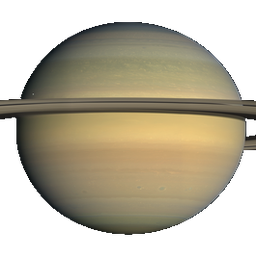
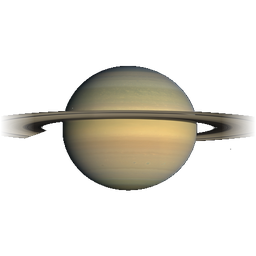
Stripe cuenta propia: webhook compatible con API basil/dahlia; sinastría web (synastryStyle), Saturno v4, sw v109
- billing/webhook.js: invoice.parent.subscription_details y current_period_* por item (API ≥2025-03-31.basil; el webhook nuevo usa 2026-08-26.dahlia)
- natal-chart.js + compatibilidad-personal.html: modo synastryStyle (órbitas por planeta, esferas visitantes, líneas exactas) — verificado 2/sep
- assets/planets/Saturno.png: anillos completos con pluma alfa (v4)
- sw.js: CACHE_NAME v109

diff --git a/js/natal-chart.js b/js/natal-chart.js
@@ -198,14 +198,14 @@
   // siendo el mayor por poco, no aplasta a Júpiter (1.13x) y el cuerpo de
   // Saturno conserva su 1.29x sobre Urano. El recorte del PNG va emparejado
   // en scripts/preparar_texturas_web.py — si cambia uno, cambia el otro.
-  var TEX_BOX = { Saturn: 1.20, Earth: 1.122 };
+  var TEX_BOX = { Saturn: 2.05, Earth: 1.122 };
 
   var _tex = {};           // nombre → HTMLImageElement
   var _texBase = '/assets/planets/';
   // Cloudflare guarda los assets 4 horas en el borde. Sin una marca en la URL
   // se puede regenerar una textura, desplegarla, y seguir viendo la vieja
   // media tarde. SÚBELO cada vez que cambie cualquier PNG de esa carpeta.
-  var _texVer = '?v=3';   // v3 = 7/ago: Saturno recortado a 1.20x (antes 1.35)
+  var _texVer = '?v=4';   // v4 = 2/sep: Saturno 2.05x con pluma (anillos sin corte)   // v3 = 7/ago: Saturno recortado a 1.20x (antes 1.35)
   // Oyentes de "ya cargó una textura". El módulo NO se repinta solo: si lo
   // hiciera tendría que reusar las opciones del render anterior, y esas
   // caducan (basta que la ventana cambie de tamaño para que el lienzo se
@@ -478,6 +478,12 @@
     // chart export que se layerea sobre cosmic bg del short.
     var TRANSPARENT_MODE = opts.transparent === true;
     var SKIP_LABELS = opts.skipLabels === true;
+    // 2026-09-02 — estilo sinastría: mejoras nacidas en los Estudios
+    // Especiales (rueda de dos cartas), encendidas SOLO con
+    // chartData.synastryStyle. Mi Día y el video no pasan la bandera y
+    // quedan pixel-idénticos. Vivieron como parches en
+    // scripts/sinastria_rueda_oficial.py (v4–v8) antes de graduarse aquí.
+    var SYN = chartData.synastryStyle === true;
     var bgOuter = outerR + size * 0.075;
     if (!TRANSPARENT_MODE) {
       var bgGrad = ctx.createRadialGradient(cx, cy, 0, cx, cy, bgOuter);
@@ -1426,7 +1432,7 @@
         // Realistic planet sphere (radial gradient + halo + optional rings).
         // Sol/Luna get bigger radii because they're the attention anchors.
         var sphereR = size * (REAL_BODIES && BODY_R[p.name] !== undefined
-                            ? BODY_R[p.name]
+                            ? BODY_R[p.name] * (SYN ? 0.82 : 1)
                             : (p.name === 'Sun' ? 0.024
                              : p.name === 'Moon' ? 0.022
                              : 0.019));
@@ -1530,6 +1536,17 @@
           pendingLabels.push(function() {
             ctx.save();
             ctx.font = labelFont;
+            if (SYN && Math.abs(lblY - py) > size * 0.05) {
+              // hilo guía cuando el anticolisión mandó la etiqueta lejos
+              // (caso real: «Mer 25°» flotando y su Mercurio gris leído
+              // como «una tercera luna»)
+              ctx.strokeStyle = 'rgba(255,255,255,0.38)';
+              ctx.lineWidth = 0.8 * (size/420);
+              ctx.beginPath();
+              ctx.moveTo(px, py + (lblY > py ? size*0.022 : -size*0.022));
+              ctx.lineTo(px, lblY + (lblY > py ? -size*0.017 : size*0.017));
+              ctx.stroke();
+            }
             ctx.shadowColor = 'rgba(0,0,0,0.85)';
             ctx.shadowBlur = 3 * (size/420);
             ctx.fillStyle = GEOCENTRIC ? 'rgba(255,255,255,0.95)'
@@ -1589,6 +1606,32 @@
       // they're sky-of-today visiting your chart).
       var transitR = size * 0.265;
 
+      // Estilo sinastría: cada visitante en la órbita de SU planeta (la
+      // doctrina del motor: se empuja el RADIO, nunca el ángulo). Si el
+      // caller no manda transitOrbit hecho, se calcula aquí a partir de
+      // ORBIT_R + el radioAjustado natal (apartando al visitante cuando su
+      // MISMO planeta natal queda casi encimado).
+      var transitOrbit = chartData.transitOrbit || null;
+      if (SYN && !transitOrbit && GEOCENTRIC && typeof ORBIT_R !== 'undefined') {
+        transitOrbit = {};
+        chartData.transits.forEach(function (t) {
+          if (ORBIT_R[t.name] !== undefined) transitOrbit[t.name] = ORBIT_R[t.name];
+        });
+        chartData.transits.forEach(function (t) {
+          var rB = transitOrbit[t.name];
+          var rA = (typeof radioAjustado !== 'undefined' && radioAjustado)
+                   ? radioAjustado[t.name] : undefined;
+          var lonA = null;
+          (chartData.planets || []).forEach(function (p) {
+            if (p.name === t.name) lonA = p.longitude;
+          });
+          if (rB === undefined || rA === undefined || lonA === null) return;
+          var d = Math.abs(lonA - t.longitude) % 360;
+          if (d > 180) d = 360 - d;
+          if (d < 16 && Math.abs(rB - rA) < 0.02) transitOrbit[t.name] = rB + 0.016;
+        });
+      }
+
       // Aspect lines first (behind the transit glyphs). Use distinct
       // colours per aspect type so the chart reads like a traditional
       // transit biwheel.
@@ -1614,18 +1657,43 @@
           var tAngle = ((tAsp.transitLon + ascOffset) * DEG) - Math.PI / 2;
           var nAngle = natalAngleByName[tAsp.natal];
           if (nAngle === undefined) continue;
-          ctx.strokeStyle = style.color + (tAsp.exact ? 'AA' : '66');
-          ctx.lineWidth = tAsp.exact ? 1.1 : 0.7;
+          ctx.strokeStyle = style.color + (tAsp.exact ? (SYN ? 'FF' : 'AA')
+                                                      : (SYN ? 'CC' : '66'));
+          ctx.lineWidth = SYN ? (tAsp.exact ? 2.8 : 1.8)
+                              : (tAsp.exact ? 1.1 : 0.7);
           ctx.setLineDash(style.dash);
           ctx.beginPath();
-          ctx.moveTo(cx + Math.cos(tAngle) * transitR, cy + Math.sin(tAngle) * transitR);
-          // Aim at the natal planet's tier'd radius — use base planetR
-          // as a good-enough endpoint since we don't have that planet's
-          // tier handy here.
-          ctx.lineTo(cx + Math.cos(nAngle) * (planetR - size * 0.02),
-                     cy + Math.sin(nAngle) * (planetR - size * 0.02));
+          var tAR = (transitOrbit && tAsp.transitName &&
+                     transitOrbit[tAsp.transitName] !== undefined)
+            ? size * transitOrbit[tAsp.transitName] : transitR;
+          ctx.moveTo(cx + Math.cos(tAngle) * tAR, cy + Math.sin(tAngle) * tAR);
+          // Extremo natal: en estilo sinastría, EXACTO sobre el planeta
+          // (v7 del estudio: el «good-enough endpoint» hacía que dos
+          // líneas distintas parecieran una sola cambiando de color).
+          var _nMul = (typeof radioAjustado !== 'undefined' && radioAjustado &&
+                       radioAjustado[tAsp.natal] !== undefined)
+            ? radioAjustado[tAsp.natal]
+            : (typeof PLANET_ORBIT_R !== 'undefined' &&
+               PLANET_ORBIT_R[tAsp.natal] !== undefined
+               ? PLANET_ORBIT_R[tAsp.natal] : null);
+          var _nR = (SYN && _nMul !== null) ? _nMul * size
+                                            : (planetR - size * 0.02);
+          var _nx = cx + Math.cos(nAngle) * _nR;
+          var _ny = cy + Math.sin(nAngle) * _nR;
+          ctx.lineTo(_nx, _ny);
           ctx.stroke();
           ctx.setLineDash([]);
+          if (SYN) {
+            // punto de color en cada punta: dónde nace y muere la línea
+            ctx.fillStyle = style.color;
+            ctx.beginPath();
+            ctx.arc(_nx, _ny, size * 0.006, 0, TAU);
+            ctx.fill();
+            ctx.beginPath();
+            ctx.arc(cx + Math.cos(tAngle) * tAR,
+                    cy + Math.sin(tAngle) * tAR, size * 0.006, 0, TAU);
+            ctx.fill();
+          }
         }
       }
 
@@ -1637,18 +1705,23 @@
         var t = chartData.transits[ti];
         if (typeof t.longitude !== 'number') continue;
         var tAng = ((t.longitude + ascOffset) * DEG) - Math.PI / 2;
-        // Small nudge if overlapping
+        // Small nudge if overlapping (NO en estilo sinastría: ahí la
+        // separación es RADIAL — el ángulo es el dato y no se miente)
         for (var tj = 0; tj < transitPositions.length; tj++) {
-          if (Math.abs(tAng - transitPositions[tj]) < 0.09) tAng += 0.095;
+          if (!SYN && Math.abs(tAng - transitPositions[tj]) < 0.09) tAng += 0.095;
         }
         transitPositions.push(tAng);
-        var tx = cx + Math.cos(tAng) * transitR;
-        var ty = cy + Math.sin(tAng) * transitR;
-        var sphereR = size * 0.018;
+        var tR = (transitOrbit && transitOrbit[t.name] !== undefined)
+          ? size * transitOrbit[t.name] : transitR;
+        var tx = cx + Math.cos(tAng) * tR;
+        var ty = cy + Math.sin(tAng) * tR;
+        var sphereR = size * (SYN && BODY_R[t.name] !== undefined
+                              ? BODY_R[t.name] * 0.82 * 0.85 : 0.018);
         drawPlanetSphere(ctx, tx, ty, sphereR, t.name, REAL_BODIES);
         // Faint silvery rim to signal "transit, not natal"
-        ctx.strokeStyle = 'rgba(220,220,240,0.55)';
-        ctx.lineWidth = 1 * (size/420);
+        ctx.strokeStyle = SYN ? 'rgba(150,205,255,0.95)'
+                              : 'rgba(220,220,240,0.55)';
+        ctx.lineWidth = (SYN ? 2.2 : 1) * (size/420);
         ctx.setLineDash([2, 2]);
         ctx.beginPath();
         ctx.arc(tx, ty, sphereR + 2.5, 0, TAU);
@@ -1675,6 +1748,20 @@
         ctx.shadowBlur = 0 * (size/420);
 
         // Hit region for tap-identify
+        if (SYN) {
+          // nombre del visitante bajo su esfera, en su color celeste
+          var tEs = {Sun:'Sol',Moon:'Luna',Mercury:'Merc',Venus:'Venus',
+                     Mars:'Marte',Jupiter:'Júp',Saturn:'Sat',
+                     Uranus:'Urano',Neptune:'Nep',Pluto:'Plutón'}[t.name]
+                    || t.name;
+          ctx.font = 'bold ' + Math.round(size * 0.0155) + 'px Inter, Arial';
+          ctx.shadowColor = 'rgba(0,0,0,0.85)';
+          ctx.shadowBlur = 4;
+          ctx.fillStyle = 'rgba(160,210,255,0.98)';
+          ctx.fillText(tEs, tx, ty + sphereR + size * 0.016);
+          ctx.shadowColor = 'transparent';
+          ctx.shadowBlur = 0;
+        }
         hitRegions.push({
           type: 'transit',
           name: t.name,

diff --git a/functions/api/billing/webhook.js b/functions/api/billing/webhook.js
@@ -196,10 +196,12 @@ export async function onRequestPost(context) {
         // nuevas del API de Stripe los mueven a subscription.items) —
         // new Date(undefined).toISOString() lanza "Invalid time value" y el
         // catch exterior devolvía 500 (11 reintentos desde el 12/jul).
-        const _ps = sub.current_period_start
-          ? new Date(sub.current_period_start * 1000).toISOString() : null;
-        const _pe = sub.current_period_end
-          ? new Date(sub.current_period_end * 1000).toISOString() : null;
+        // 2026-09-03: en API ≥2025-03-31.basil los periodos viven en el item.
+        const _item0 = sub.items?.data?.[0] || {};
+        const _cps = sub.current_period_start || _item0.current_period_start;
+        const _cpe = sub.current_period_end || _item0.current_period_end;
+        const _ps = _cps ? new Date(_cps * 1000).toISOString() : null;
+        const _pe = _cpe ? new Date(_cpe * 1000).toISOString() : null;
         await DB.prepare(
           'UPDATE subscriptions SET status = ?, ' +
           'current_period_start = COALESCE(?, current_period_start), ' +
@@ -252,11 +254,17 @@ export async function onRequestPost(context) {
         if (amountCents > 0) {
           const email = invoice.customer_email || '';
           let plan = 'premium';
+          // 2026-09-03: desde la API 2025-03-31.basil `invoice.subscription` ya no
+          // existe; vive en `invoice.parent.subscription_details.subscription`.
+          // El webhook nuevo (cuenta Luz Estelar) usa 2026-08-26.dahlia.
+          const invoiceSubId = invoice.subscription
+            || invoice.parent?.subscription_details?.subscription
+            || null;
           try {
-            if (invoice.subscription) {
+            if (invoiceSubId) {
               const subRow = await DB.prepare(
                 'SELECT plan FROM subscriptions WHERE stripe_subscription_id = ?'
-              ).bind(invoice.subscription).first();
+              ).bind(invoiceSubId).first();
               if (subRow?.plan) plan = subRow.plan;
             }
           } catch (e) { /* non-fatal — fall back to 'premium' */ }

diff --git a/compatibilidad-personal.html b/compatibilidad-personal.html
@@ -972,15 +972,16 @@ body{
     // aspects visible too (those were finally fixed in v55).
 
     // 2026-08-07: esta página se quedó con el acabado viejo cuando /mi-dia
-    // pasó al nuevo — planetas dibujados, sin constelaciones ni estrellas.
-    // Ahora lleva el MISMO acabado, pero NO `geocentricOrbits`: en la rueda
-    // geocéntrica la distancia al centro dice QUÉ PLANETA es, y aquí tiene
-    // que seguir diciendo DE QUIÉN es (dentro tú, fuera la otra persona),
-    // que es lo único que esta página tiene que comunicar.
-    //
-    // Efecto secundario bienvenido: los planetas de dentro salen con foto y
-    // los de fuera como medallón de glifo, así que "quién es quién" se
-    // distingue mejor que antes, sin tocar la disposición.
+    // pasó al nuevo. 2026-09-02 — REVISIÓN de la doctrina «dentro tú, fuera
+    // la otra persona»: al construir la rueda de los Estudios Especiales se
+    // comparó lado a lado esta vista contra la de órbitas geocéntricas con
+    // estilo sinastría (cada visitante en la órbita de SU planeta, con
+    // nombre celeste y aro punteado) y el usuario dictaminó que la nueva
+    // «gana claramente cuando se muestran los dos mapas juntos»: el
+    // quién-es-quién ahora lo dicen el color y el nombre, no el anillo.
+    // synastryStyle enciende ese modo en natal-chart.js (mi-dia y el video
+    // no pasan la bandera y quedan intactos).
+    data.synastryStyle = true;
     if (window.__syCatalogs) {
       data.starCatalog = window.__syCatalogs.stars;
       data.constellationCatalog = window.__syCatalogs.constellations;
@@ -994,6 +995,9 @@ body{
       fullWedges: true,
       wedgeAlpha: 0.033,
       rotateFigures: true,
+      // 2026-09-02: órbitas geocéntricas también aquí — requisito del
+      // estilo sinastría (cada planeta en su órbita; ver nota de arriba)
+      geocentricOrbits: true,
       // OJO: tiene que ser SIEMPRE LA MISMA función. natal-chart.js guarda
       // los avisos de "textura cargada" en una lista y deduplica POR
       // REFERENCIA (indexOf). Si aquí se pasa una closure nueva en cada

diff --git a/sw.js b/sw.js
@@ -507,7 +507,7 @@
 // las texturas suben a ?v=3.
 // v106 → v107 (Ago 31): edicion de perfil (lapiz ✎) en mi-dia — sin
 // bump, el SW servia la version vieja y el boton era invisible.
-// v107 → v108 (Ago 31): enlace magico #corregir
+// v107 → v109 (Ago 31): enlace magico #corregir
 const CACHE_NAME = 'luzestelar-v108';
 const OFFLINE_URL = '/offline.html';
 // English readers used to fall back to the Spanish offline page — it is the
